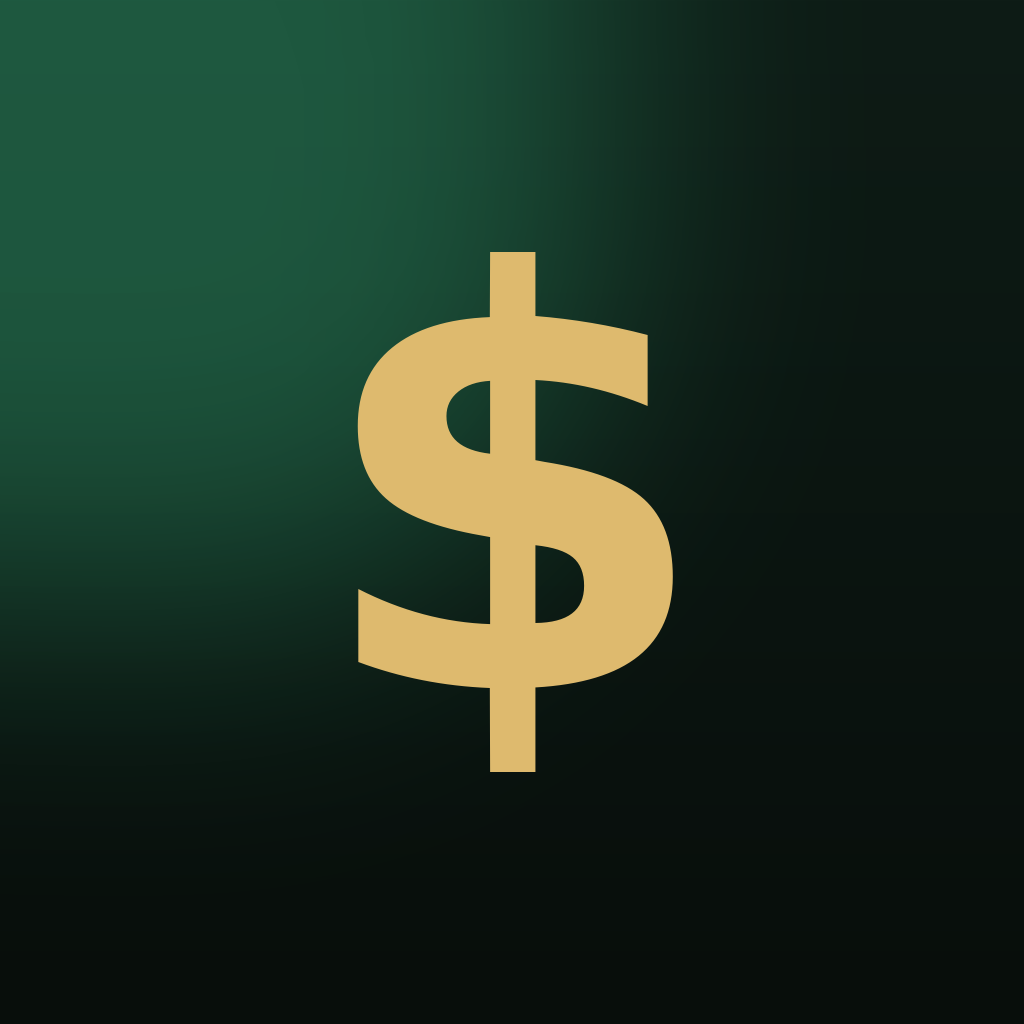
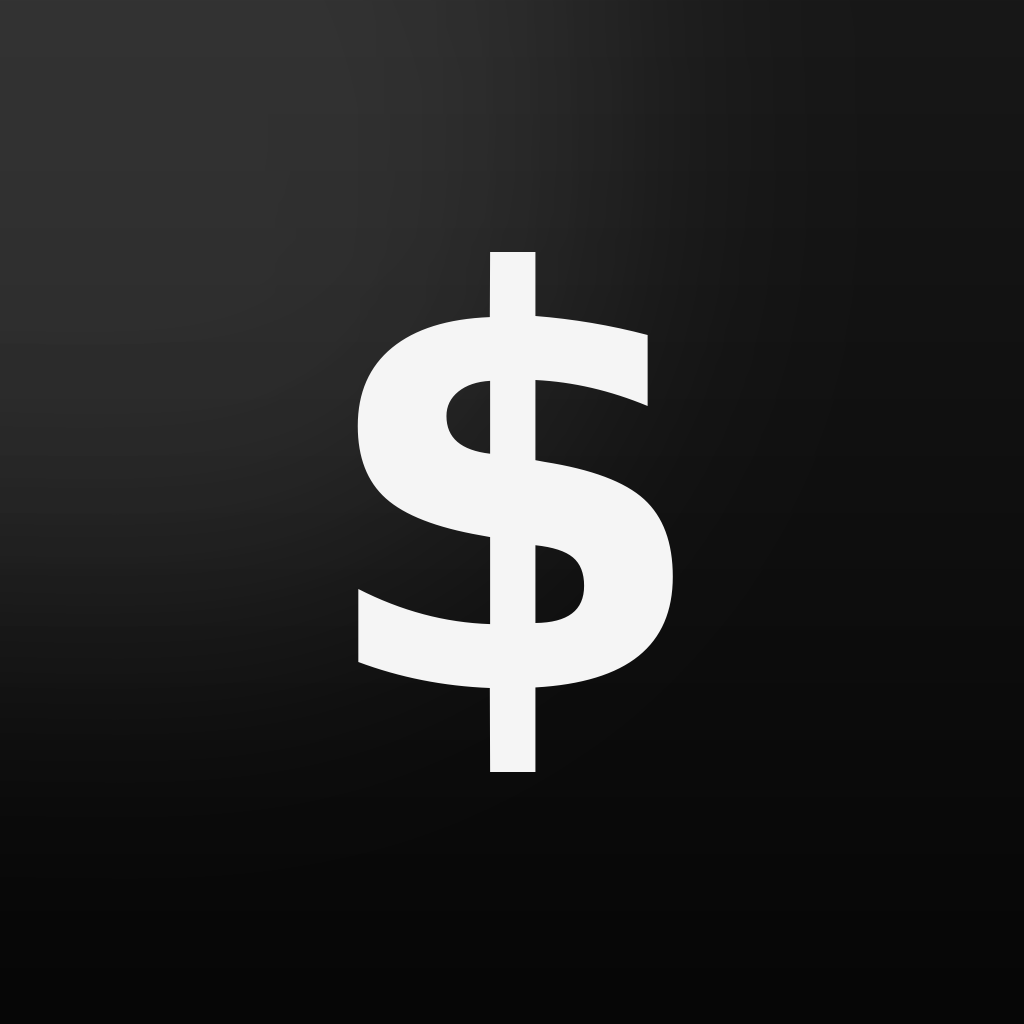
Switch to a fully monochrome black & white theme
- Desaturate every color token (backgrounds, bucket palette,
  income/expense, buttons, chips, tabs) to grayscale; buckets are now
  told apart purely by icon and shade, income/expense by icon
  direction and +/- sign rather than green/red.
- Replace the colored primary/danger buttons with inverted
  white-on-black / outlined styles.
- Give the allocation sum bar a check/alert icon instead of a
  color cue for its ok/bad state.
- Regenerate the home screen app icon and manifest theme colors to
  match the black & white palette.

Claude-Session: https://claude.ai/code/session_01HTFgc59UXE91ZBgRjGG8Gh

diff --git a/index.html b/index.html
@@ -6,7 +6,7 @@
 <meta name="apple-mobile-web-app-capable" content="yes">
 <meta name="apple-mobile-web-app-status-bar-style" content="black-translucent">
 <meta name="apple-mobile-web-app-title" content="Wealth Split">
-<meta name="theme-color" content="#0a120e">
+<meta name="theme-color" content="#0a0a0a">
 <title>Wealth Split</title>
 <link rel="manifest" href="manifest.json">
 <link rel="icon" href="icons/icon-512.png">
@@ -15,35 +15,35 @@
 <link href="https://fonts.googleapis.com/css2?family=Plus+Jakarta+Sans:ital,wght@0,400;0,500;0,600;0,700;0,800;1,500&family=DM+Mono:wght@400;500&display=swap" rel="stylesheet">
 <style>
 :root {
-  --bg:      oklch(11% 0.024 165);
-  --bg2:     oklch(15% 0.028 165);
-  --bg3:     oklch(19% 0.032 165);
-  --bg4:     oklch(23% 0.035 165);
-  --border:  oklch(27% 0.035 165 / 0.65);
-  --gold:    oklch(80% 0.15  85);
-  --gold-d:  oklch(80% 0.15  85 / 0.14);
-  --rose:    oklch(74% 0.17  355);
-  --rose-d:  oklch(74% 0.17  355 / 0.14);
-  --orange:  oklch(72% 0.17  45);
-  --orange-d:oklch(72% 0.17  45 / 0.14);
-  --sky:     oklch(76% 0.12  220);
-  --sky-d:   oklch(76% 0.12  220 / 0.14);
-  --emerald: oklch(76% 0.16  155);
-  --emerald-d:oklch(76% 0.16 155 / 0.14);
-  --violet:  oklch(72% 0.18  300);
-  --violet-d:oklch(72% 0.18  300 / 0.14);
-  --cyan:    oklch(78% 0.11  200);
-  --cyan-d:  oklch(78% 0.11  200 / 0.14);
-  --amber:   oklch(78% 0.16  70);
-  --amber-d: oklch(78% 0.16  70 / 0.14);
-  --pink:    oklch(76% 0.19  340);
-  --pink-d:  oklch(76% 0.19  340 / 0.14);
-  --lime:    oklch(80% 0.15  130);
-  --lime-d:  oklch(80% 0.15  130 / 0.14);
-  --text:    oklch(96% 0.008 165);
-  --dim:     oklch(58% 0.02  165);
-  --red:     oklch(62% 0.22  25);
-  --green:   oklch(72% 0.17  150);
+  --bg:      oklch(10% 0 0);
+  --bg2:     oklch(15% 0 0);
+  --bg3:     oklch(20% 0 0);
+  --bg4:     oklch(26% 0 0);
+  --border:  oklch(32% 0 0 / 0.65);
+  --gold:    oklch(95% 0 0);
+  --gold-d:  oklch(95% 0 0 / 0.14);
+  --rose:    oklch(90% 0 0);
+  --rose-d:  oklch(90% 0 0 / 0.14);
+  --orange:  oklch(85% 0 0);
+  --orange-d:oklch(85% 0 0 / 0.14);
+  --sky:     oklch(80% 0 0);
+  --sky-d:   oklch(80% 0 0 / 0.14);
+  --emerald: oklch(75% 0 0);
+  --emerald-d:oklch(75% 0 0 / 0.14);
+  --violet:  oklch(70% 0 0);
+  --violet-d:oklch(70% 0 0 / 0.14);
+  --cyan:    oklch(65% 0 0);
+  --cyan-d:  oklch(65% 0 0 / 0.14);
+  --amber:   oklch(60% 0 0);
+  --amber-d: oklch(60% 0 0 / 0.14);
+  --pink:    oklch(55% 0 0);
+  --pink-d:  oklch(55% 0 0 / 0.14);
+  --lime:    oklch(52% 0 0);
+  --lime-d:  oklch(52% 0 0 / 0.14);
+  --text:    oklch(97% 0 0);
+  --dim:     oklch(58% 0 0);
+  --red:     oklch(55% 0 0);
+  --green:   oklch(94% 0 0);
   --safe-top:    env(safe-area-inset-top, 0px);
   --safe-bottom: env(safe-area-inset-bottom, 0px);
 }
@@ -60,8 +60,8 @@ body {
 body::before {
   content: '';
   position: fixed; inset: 0;
-  background: radial-gradient(ellipse at 15% 0%, oklch(76% 0.16 155 / 0.08) 0%, transparent 55%),
-              radial-gradient(ellipse at 85% 100%, oklch(80% 0.15 85 / 0.06) 0%, transparent 55%);
+  background: radial-gradient(ellipse at 15% 0%, oklch(100% 0 0 / 0.06) 0%, transparent 55%),
+              radial-gradient(ellipse at 85% 100%, oklch(100% 0 0 / 0.04) 0%, transparent 55%);
   pointer-events: none; z-index: 0;
 }
 .mono { font-family: 'DM Mono', monospace; }
@@ -72,7 +72,7 @@ body::before {
 .tab { flex: 1; display: flex; flex-direction: column; align-items: center; gap: 3px; padding: 10px 0 8px; font-size: 0.65rem; font-weight: 600; letter-spacing: 0.06em; text-transform: uppercase; color: var(--dim); cursor: pointer; transition: color .2s, transform .15s; }
 .tab:active { transform: scale(0.92); }
 .tab svg { width: 21px; height: 21px; stroke-width: 1.8; }
-.tab.active { color: var(--emerald); }
+.tab.active { color: var(--text); }
 
 /* ── SCREENS ── */
 .screen { display: none; flex: 1; overflow-y: auto; overflow-x: hidden; -webkit-overflow-scrolling: touch; }
@@ -88,7 +88,7 @@ body::before {
 }
 .summary-card::after {
   content: ''; position: absolute; top: -40%; right: -20%; width: 60%; height: 140%;
-  background: radial-gradient(circle, var(--emerald-d) 0%, transparent 70%); pointer-events: none;
+  background: radial-gradient(circle, oklch(100% 0 0 / 0.05) 0%, transparent 70%); pointer-events: none;
 }
 .summary-label { font-size: 0.72rem; color: var(--dim); font-weight: 600; text-transform: uppercase; letter-spacing: 0.08em; }
 .summary-total { font-size: 2.5rem; font-weight: 800; margin-top: 4px; letter-spacing: -0.02em; }
@@ -141,7 +141,7 @@ input[type=date] { color-scheme: dark; }
   padding: 10px 14px; border-radius: 12px; background: var(--bg2); border: 1.5px solid var(--border);
   font-size: 0.82rem; font-weight: 700; color: var(--dim); cursor: pointer; transition: all .15s;
 }
-.chip.active { border-color: var(--emerald); color: var(--text); background: var(--emerald-d); }
+.chip.active { border-color: var(--text); color: var(--text); background: var(--bg4); }
 .preview-box { margin-top: 4px; border-radius: 16px; background: var(--bg2); border: 1px solid var(--border); overflow: hidden; }
 .preview-row { display: flex; align-items: center; gap: 10px; padding: 12px 16px; border-bottom: 1px solid var(--border); }
 .preview-row:last-child { border-bottom: none; }
@@ -150,12 +150,12 @@ input[type=date] { color-scheme: dark; }
 .preview-row .pamt { font-weight: 700; font-size: 0.9rem; }
 .bucket-balance-hint { font-size: 0.78rem; color: var(--dim); margin-top: 8px; }
 .btn-primary {
-  width: 100%; padding: 15px; border-radius: 16px; border: none; background: var(--emerald); color: oklch(15% 0.03 155);
+  width: 100%; padding: 15px; border-radius: 16px; border: none; background: var(--text); color: var(--bg);
   font-weight: 800; font-size: 0.95rem; cursor: pointer; margin-top: 6px; transition: transform .12s, opacity .15s; font-family: inherit;
 }
 .btn-primary:active { transform: scale(0.98); }
 .btn-primary:disabled { opacity: 0.4; }
-.btn-danger { background: var(--red); color: white; }
+.btn-danger { background: transparent; color: var(--text); border: 1.5px solid var(--text); }
 
 /* ── HISTORY ── */
 .history-top { padding: 22px 20px 12px; flex-shrink: 0; }
@@ -194,8 +194,10 @@ input[type=date] { color-scheme: dark; }
 .icon-del-btn svg { width: 16px; height: 16px; }
 .settings-card input[type=text][data-field="name"] { flex: 1; margin-bottom: 0; }
 .pct-sum-bar { display: flex; align-items: center; justify-content: space-between; padding: 14px 16px; border-radius: 14px; background: var(--bg2); border: 1px solid var(--border); font-weight: 700; margin-bottom: 12px; }
-.pct-sum-bar.ok { color: var(--green); border-color: var(--green); }
-.pct-sum-bar.bad { color: var(--red); border-color: var(--red); }
+.pct-sum-bar .pct-sum-label { display: flex; align-items: center; gap: 8px; }
+.pct-sum-bar .pct-sum-label svg { width: 16px; height: 16px; flex-shrink: 0; }
+.pct-sum-bar.ok { color: var(--text); border-color: var(--text); }
+.pct-sum-bar.bad { color: var(--dim); border-style: dashed; }
 .add-bucket-btn { margin-bottom: 4px; }
 .danger-zone { margin-top: 8px; padding-top: 14px; border-top: 1px dashed var(--border); }
 
@@ -351,7 +353,9 @@ const ICONS = {
   compass: '<svg viewBox="0 0 24 24" fill="none" stroke="currentColor" stroke-width="2" stroke-linecap="round" stroke-linejoin="round"><circle cx="12" cy="12" r="10"/><polygon points="16.24 7.76 14.12 14.12 7.76 16.24 9.88 9.88 16.24 7.76"/></svg>',
   gift: '<svg viewBox="0 0 24 24" fill="none" stroke="currentColor" stroke-width="2" stroke-linecap="round" stroke-linejoin="round"><polyline points="20 12 20 22 4 22 4 12"/><rect x="2" y="7" width="20" height="5"/><line x1="12" y1="22" x2="12" y2="7"/><path d="M12 7H7.5a2.5 2.5 0 0 1 0-5C11 2 12 7 12 7z"/><path d="M12 7h4.5a2.5 2.5 0 0 0 0-5C13 2 12 7 12 7z"/></svg>',
   briefcase: '<svg viewBox="0 0 24 24" fill="none" stroke="currentColor" stroke-width="2" stroke-linecap="round" stroke-linejoin="round"><rect x="2" y="7" width="20" height="14" rx="2" ry="2"/><path d="M16 21V5a2 2 0 0 0-2-2h-4a2 2 0 0 0-2 2v16"/></svg>',
-  anchor: '<svg viewBox="0 0 24 24" fill="none" stroke="currentColor" stroke-width="2" stroke-linecap="round" stroke-linejoin="round"><circle cx="12" cy="5" r="3"/><line x1="12" y1="22" x2="12" y2="8"/><path d="M5 12H2a10 10 0 0 0 20 0h-3"/></svg>'
+  anchor: '<svg viewBox="0 0 24 24" fill="none" stroke="currentColor" stroke-width="2" stroke-linecap="round" stroke-linejoin="round"><circle cx="12" cy="5" r="3"/><line x1="12" y1="22" x2="12" y2="8"/><path d="M5 12H2a10 10 0 0 0 20 0h-3"/></svg>',
+  check: '<svg viewBox="0 0 24 24" fill="none" stroke="currentColor" stroke-width="2" stroke-linecap="round" stroke-linejoin="round"><polyline points="20 6 9 17 4 12"/></svg>',
+  alert: '<svg viewBox="0 0 24 24" fill="none" stroke="currentColor" stroke-width="2" stroke-linecap="round" stroke-linejoin="round"><circle cx="12" cy="12" r="10"/><line x1="12" y1="8" x2="12" y2="12"/><line x1="12" y1="16" x2="12.01" y2="16"/></svg>'
 };
 
 const COLORS = {
@@ -647,8 +651,9 @@ function renderSettings() {
     let sum = 0;
     inputs.forEach(i => sum += parseFloat(i.value) || 0);
     const bar = document.getElementById('pct-sum-bar');
-    bar.className = 'pct-sum-bar ' + (sum === 100 ? 'ok' : 'bad');
-    bar.innerHTML = `<span>Total Allocation</span><span>${sum}%</span>`;
+    const ok = sum === 100;
+    bar.className = 'pct-sum-bar ' + (ok ? 'ok' : 'bad');
+    bar.innerHTML = `<span class="pct-sum-label">${ok ? ICONS.check : ICONS.alert}Total Allocation</span><span>${sum}%</span>`;
     document.getElementById('settings-save').disabled = sum !== 100;
   }
   list.querySelectorAll('input[data-field="pct"]').forEach(i => i.addEventListener('input', updateSumBar));
